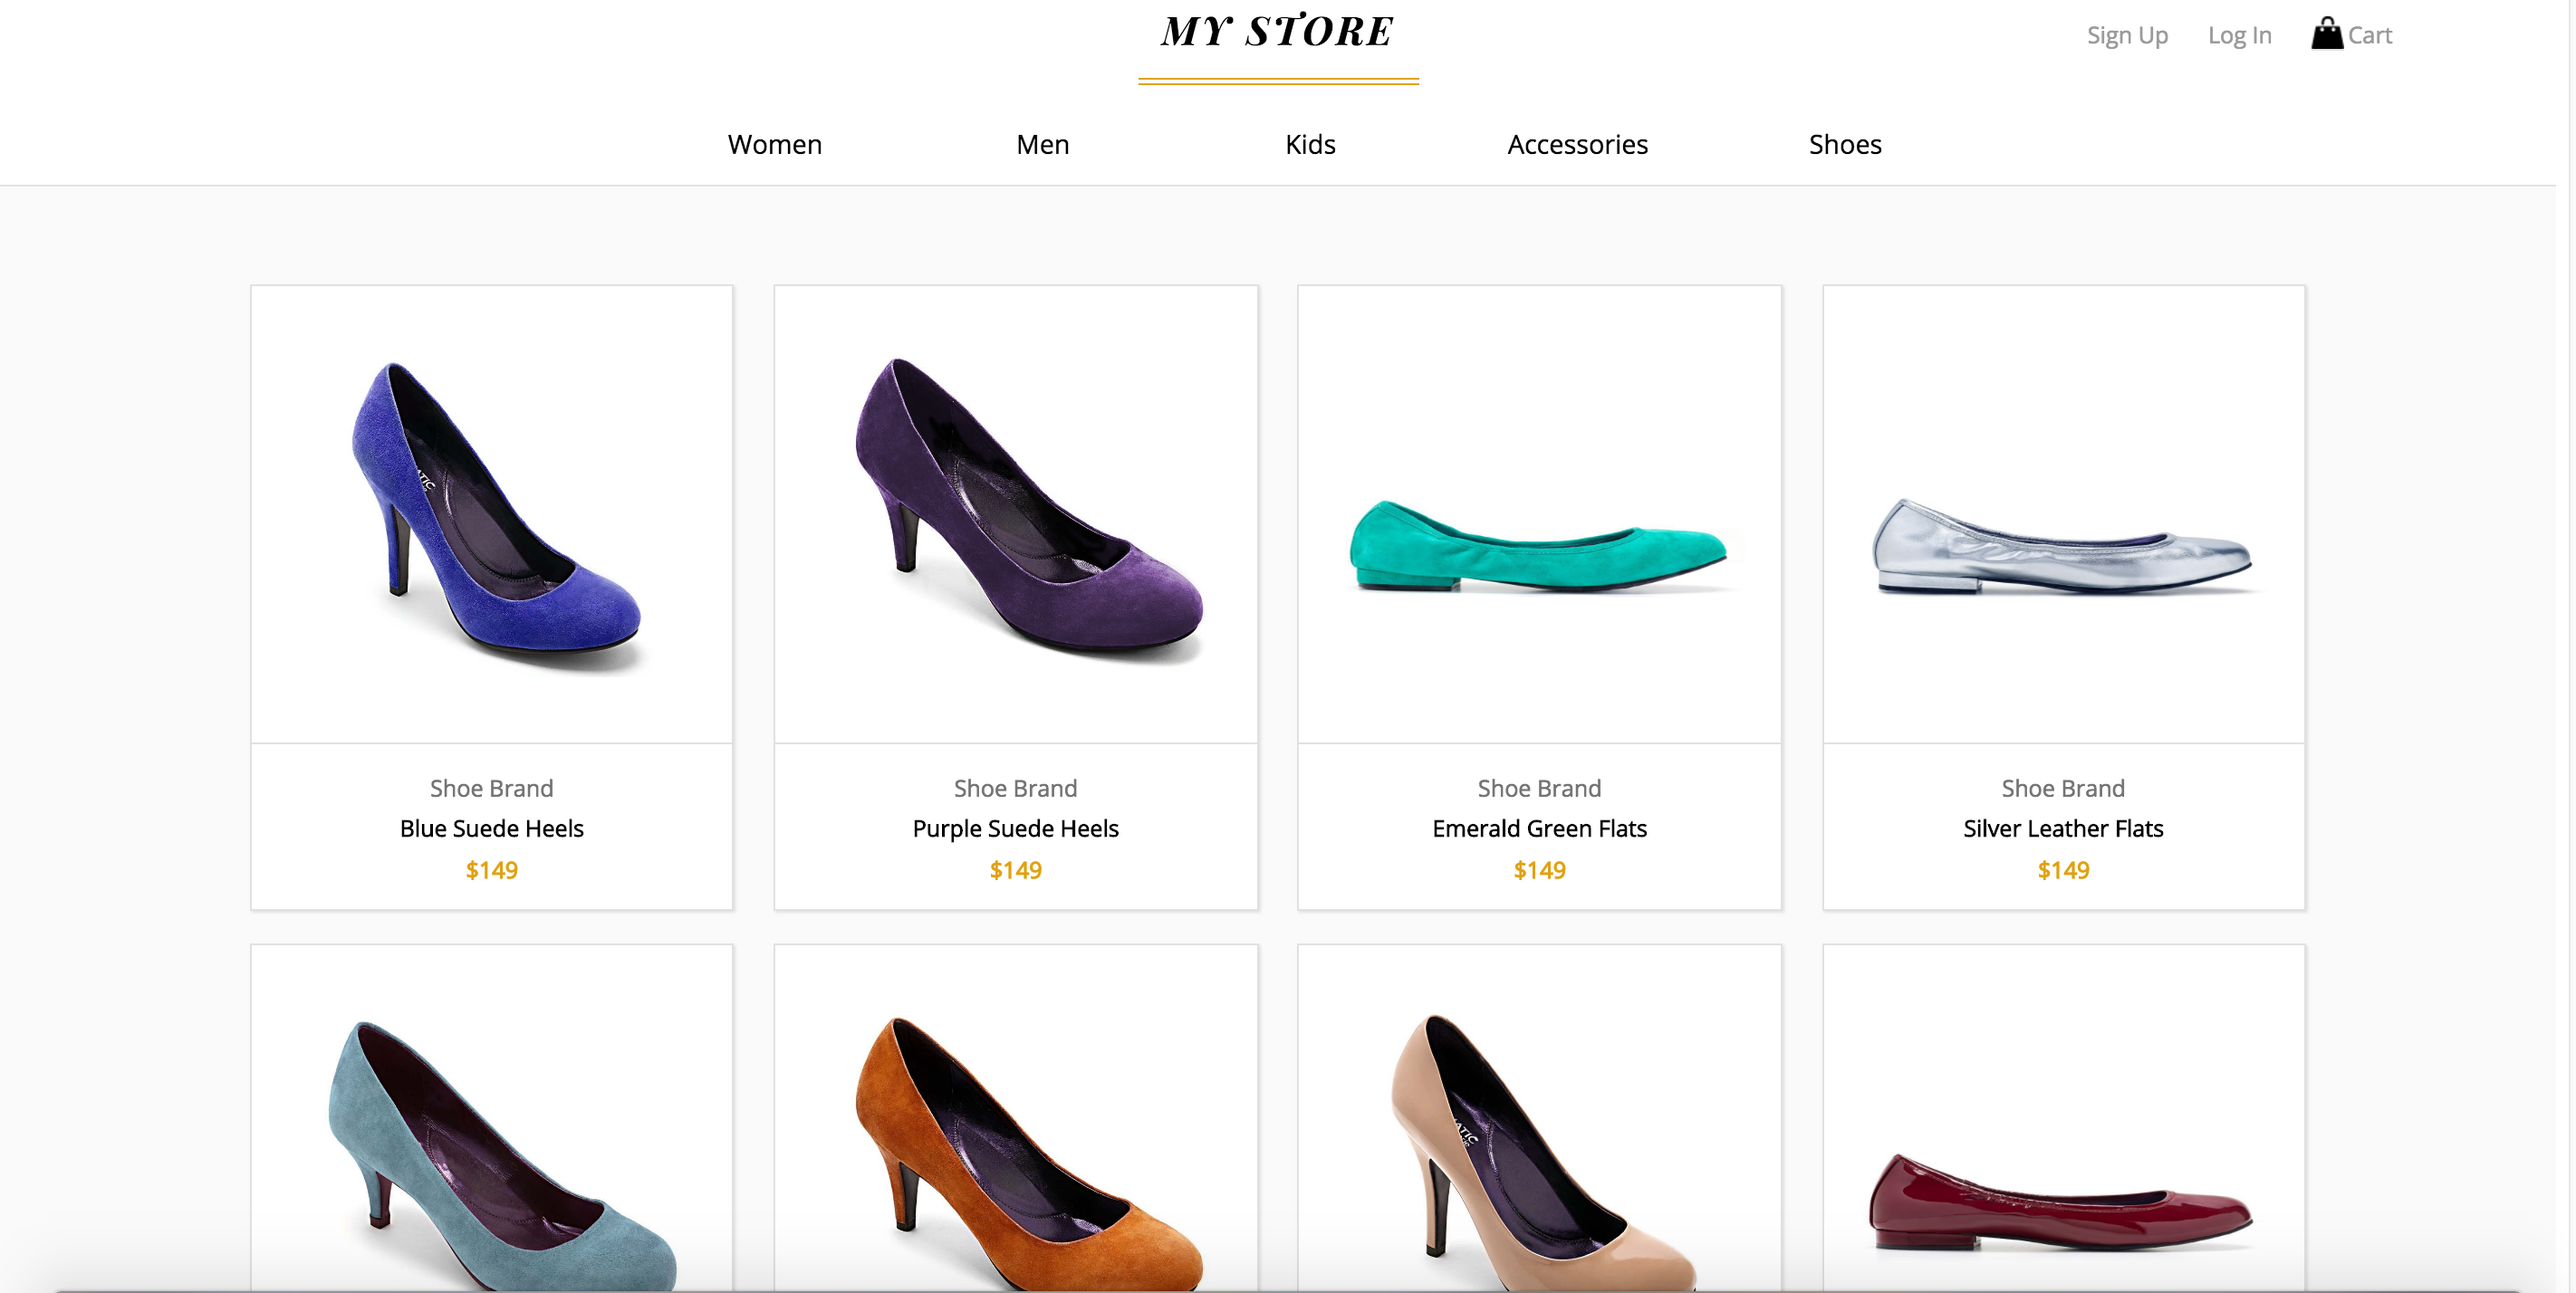
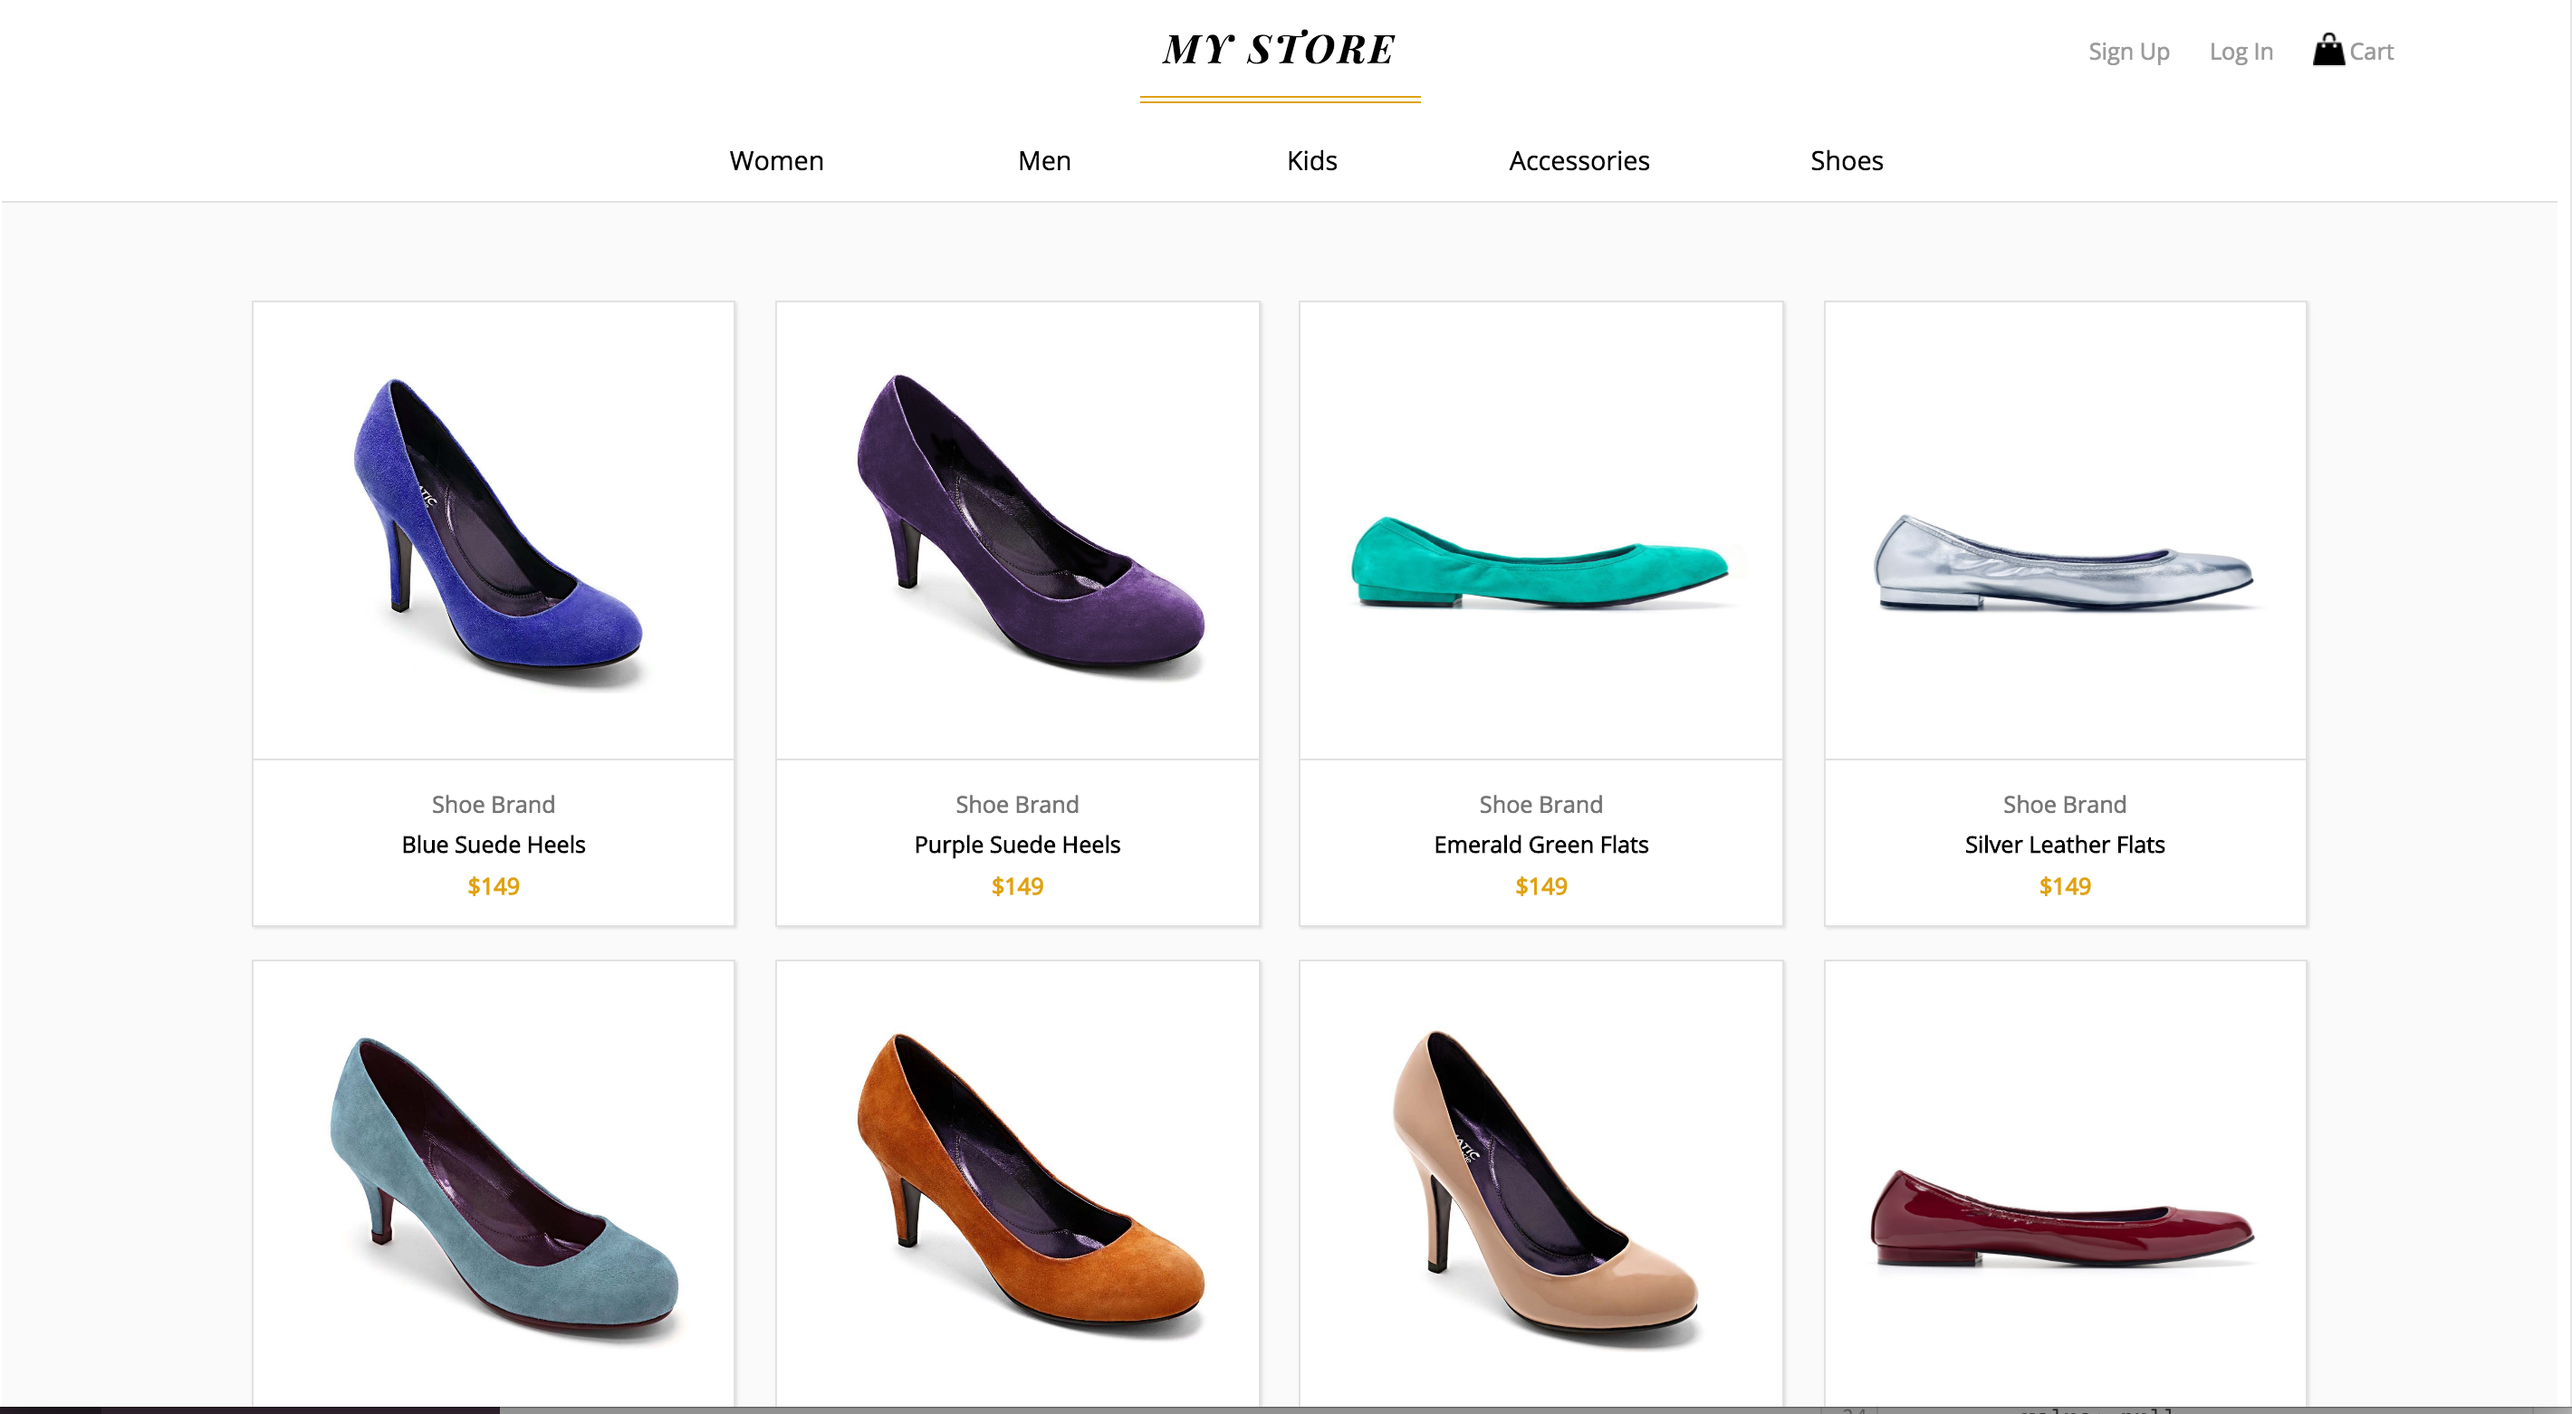
updated font color and styling

diff --git a/stylesheet.css b/stylesheet.css
@@ -1,6 +1,16 @@
 .wrapper {
    font-family: 'Open Sans', Arial, Helvetica, sans-serif;
    position: relative;
+   /*background-color: linen;*/
+   /*background-color: rgba(72,147,158, .2);*/
+   /*background: rgba(240,217,104,1);
+background: -moz-linear-gradient(top, rgba(240,217,104,1) 0%, rgba(70,225,252,0.26) 100%);
+background: -webkit-gradient(left top, left bottom, color-stop(0%, rgba(240,217,104,1)), color-stop(100%, rgba(70,225,252,0.26)));
+background: -webkit-linear-gradient(top, rgba(240,217,104,1) 0%, rgba(70,225,252,0.26) 100%);
+background: -o-linear-gradient(top, rgba(240,217,104,1) 0%, rgba(70,225,252,0.26) 100%);
+background: -ms-linear-gradient(top, rgba(240,217,104,1) 0%, rgba(70,225,252,0.26) 100%);
+background: linear-gradient(to bottom, rgba(240,217,104,1) 0%, rgba(70,225,252,0.26) 100%);
+filter: progid:DXImageTransform.Microsoft.gradient( startColorstr='#f0d968', endColorstr='#46e1fc', GradientType=0 );*/
 }
 
 header {
@@ -31,14 +41,18 @@ header {
 }
 
 .logo {
-  color: black;
+  color: #ffffff;
   padding: 15px;
   font-family: 'Playfair Display', serif;
-  font-size: 30px;
+  font-size: 2.5em;
   letter-spacing: 2px;
   font-weight: bold;
   font-style: italic;
   text-decoration: none;
+}
+
+.logo2 {
+  color: #000000;
 }
 
 img {
@@ -50,6 +64,7 @@ img {
 }
 
 nav {
+  background-color: #000000;
   border-top: 1px solid #000000;
   border-bottom: 1px solid #000000;
   text-align: center;
@@ -73,13 +88,13 @@ nav a:hover {
 
 .nav-list {
   box-sizing: border-box;
-  color: #000000;
+  color: #ffffff;
   display: inline-block;
   height: 50px;
   line-height: 50px;
   margin: 0 30px;
   text-align: center;
-  min-width: 185px;
+  min-width: 13%;
   font-weight: 100;
 }
 
@@ -93,8 +108,12 @@ nav a:hover {
 .course {
   text-transform: uppercase;
   font-weight: bold;
-  font-size: 15px;
+  font-size: 1em;
   margin: 5px auto;
+}
+
+.course2 {
+  color: #E0A210;
 }
 
 .main-container {
@@ -103,9 +122,20 @@ nav a:hover {
   -moz-background-size: cover;
   -o-background-size: cover;
   background-size: cover;
-  width: 100%;
-  height: 650px;
+  z-index: -99;
   opacity: 0.8;
+  /* Set rules to fill background */
+  min-height: 100%;
+  min-width: 1024px;
+
+  /* Set up proportionate scaling */
+  width: 100%;
+  height: auto;
+
+  /* Set up positioning */
+  position: fixed;
+  top: 0;
+  left: 0;
 }
 
 .quote {
@@ -116,7 +146,7 @@ nav a:hover {
   position: absolute;
   left: 55%;
   top: 40%;
-  font-size: 32px;
+  font-size: 2em;
   font-family: 'Times new roman';
   font-style: italic;
   letter-spacing: 1px;
@@ -143,28 +173,30 @@ nav a:hover {
 }
 
 .title {
-  font-size: 20px;
-  margin: 10px auto;
+  font-size: 1.5em;
+  margin: 20px auto 10px auto;
 }
 .description {
   width: 50%;
-  margin: 15px auto;
+  margin: 30px auto;
+  font-weight: normal;
 }
 
 .site a,
 .repo a {
   display: inline-block;
-  border: 6px double #000000;
+  border: 6px double #ffffff;
   padding: 10px;
   text-decoration: none;
-  color: #000000;
+  color: #ffffff;
   margin-bottom: 20px;
+  background-color: #000000;
 }
 
 .site a:hover,
 .repo a:hover {
-  color: #ffffff;
+  color: #000000;
   font-weight: bold;
-  background-color: #000000;
-  border-color: #ffffff;
+  background-color: #ffffff;
+  border-color: #000000;
 }

diff --git a/md-calculator.html b/md-calculator.html
@@ -20,8 +20,8 @@
         <span class="back"><a href="index.html"><img src="images/left-arrow.png" alt="">Back</a></span>
         <span>
 
-          <a href="#" class="logo">Denine Guy</a>
-          <p class="course">CP3 - Modern Front End Developer</p>
+          <a href="#" class="logo logo2">Denine Guy</a>
+          <p class="course course2">CP3 - Modern Front End Developer</p>
         </span>
       </header>
       <nav>

diff --git a/md-forms-and-inputs.html b/md-forms-and-inputs.html
@@ -20,8 +20,8 @@
         <span class="back"><a href="index.html"><img src="images/left-arrow.png" alt="">Back</a></span>
         <span>
 
-          <a href="#" class="logo">Denine Guy</a>
-          <p class="course">CP3 - Modern Front End Developer</p>
+          <a href="#" class="logo logo2">Denine Guy</a>
+          <p class="course course2">CP3 - Modern Front End Developer</p>
         </span>
       </header>
       <nav>

diff --git a/md-product-listing.html b/md-product-listing.html
@@ -20,8 +20,8 @@
         <span class="back"><a href="index.html"><img src="images/left-arrow.png" alt="">Back</a></span>
         <span>
 
-          <a href="#" class="logo">Denine Guy</a>
-          <p class="course">CP3 - Modern Front End Developer</p>
+          <a href="#" class="logo logo2">Denine Guy</a>
+          <p class="course course2">CP3 - Modern Front End Developer</p>
         </span>
       </header>
       <nav>

diff --git a/md-sidebar.html b/md-sidebar.html
@@ -20,8 +20,8 @@
         <span class="back"><a href="index.html"><img src="images/left-arrow.png" alt="">Back</a></span>
         <span>
 
-          <a href="#" class="logo">Denine Guy</a>
-          <p class="course">CP3 - Modern Front End Developer</p>
+          <a href="#" class="logo logo2">Denine Guy</a>
+          <p class="course course2">CP3 - Modern Front End Developer</p>
         </span>
       </header>
       <nav>

diff --git a/web-component.html b/web-component.html
@@ -20,8 +20,8 @@
         <span class="back"><a href="index.html"><img src="images/left-arrow.png" alt="">Back</a></span>
         <span>
 
-          <a href="#" class="logo">Denine Guy</a>
-          <p class="course">CP3 - Modern Front End Developer</p>
+          <a href="#" class="logo logo2">Denine Guy</a>
+          <p class="course course2">CP3 - Modern Front End Developer</p>
         </span>
       </header>
       <nav>
